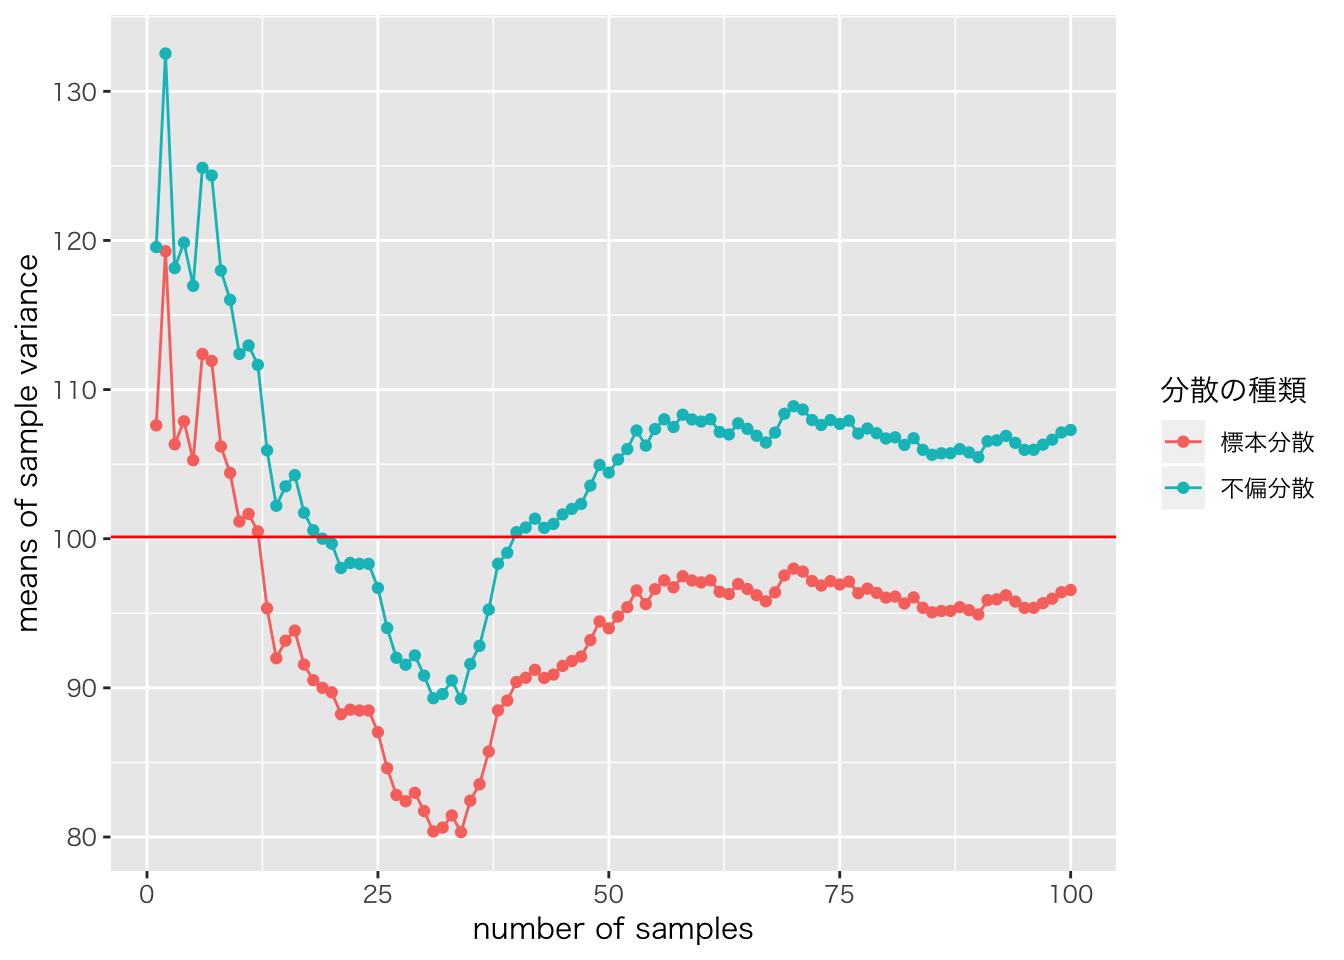
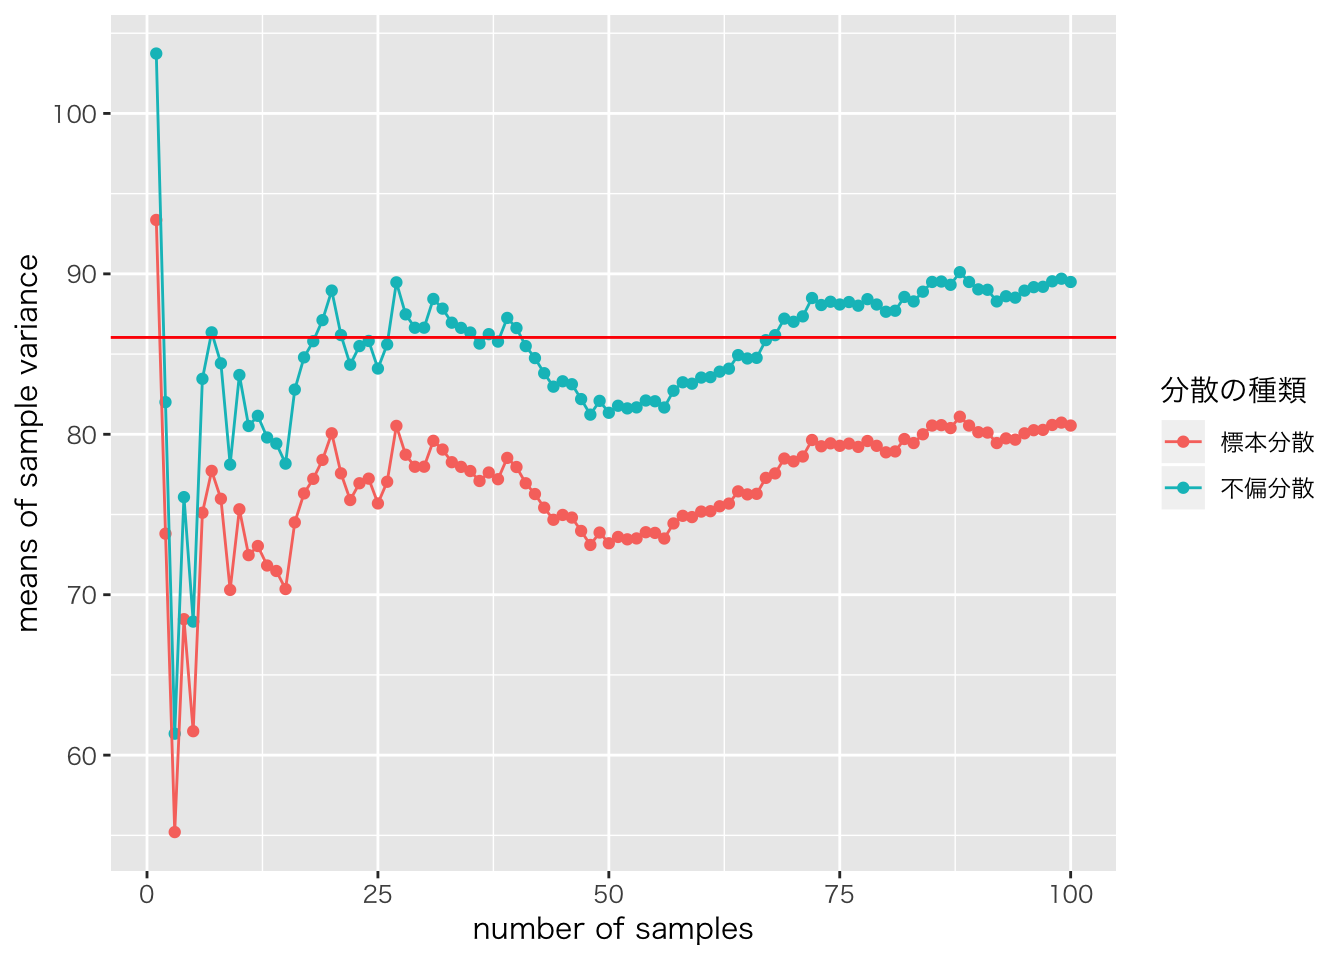
set.seed

diff --git a/docs/2018/07/04/2018-07-04/index.html b/docs/2018/07/04/2018-07-04/index.html
@@ -21,7 +21,7 @@
     <link href='https://fonts.googleapis.com/css?family=Open+Sans:400italic,400,600' rel='stylesheet' type='text/css'>
     <link href='https://fonts.googleapis.com/css?family=Source+Code+Pro' rel='stylesheet' type='text/css'>
     <meta property="og:title" content="不偏分散と標本分散の比較" />
-<meta property="og:description" content="不偏分散(\(N-1\)で割る方)が標本分散よりも分散の推定値として良いことを可視化します。 library(tidyverse) ## ─ Attaching packages ────────────── tidyverse 1.2.1 ─ ## ✔" />
+<meta property="og:description" content="不偏分散(\(N-1\)で割る方)が標本分散よりも分散の推定値として良いことを可視化します。 set.seed(20180704) library(tidyverse) ## ─ Attaching packages ────────────── tidyverse 1.2.1 ─ ##" />
 <meta property="og:type" content="article" />
 <meta property="og:url" content="/2018/07/04/2018-07-04/" />
 
@@ -44,12 +44,12 @@
     
     
 <meta itemprop="name" content="不偏分散と標本分散の比較">
-<meta itemprop="description" content="不偏分散(\(N-1\)で割る方)が標本分散よりも分散の推定値として良いことを可視化します。 library(tidyverse) ## ─ Attaching packages ────────────── tidyverse 1.2.1 ─ ## ✔">
+<meta itemprop="description" content="不偏分散(\(N-1\)で割る方)が標本分散よりも分散の推定値として良いことを可視化します。 set.seed(20180704) library(tidyverse) ## ─ Attaching packages ────────────── tidyverse 1.2.1 ─ ##">
 
 
 <meta itemprop="datePublished" content="2018-07-04T00:00:00&#43;00:00" />
 <meta itemprop="dateModified" content="2018-07-04T00:00:00&#43;00:00" />
-<meta itemprop="wordCount" content="404">
+<meta itemprop="wordCount" content="405">
 
 
 
@@ -57,7 +57,7 @@
 
     <meta name="twitter:card" content="summary"/>
 <meta name="twitter:title" content="不偏分散と標本分散の比較"/>
-<meta name="twitter:description" content="不偏分散(\(N-1\)で割る方)が標本分散よりも分散の推定値として良いことを可視化します。 library(tidyverse) ## ─ Attaching packages ────────────── tidyverse 1.2.1 ─ ## ✔"/>
+<meta name="twitter:description" content="不偏分散(\(N-1\)で割る方)が標本分散よりも分散の推定値として良いことを可視化します。 set.seed(20180704) library(tidyverse) ## ─ Attaching packages ────────────── tidyverse 1.2.1 ─ ##"/>
 <meta name="twitter:site" content="@kosugitti"/>
 
     
@@ -335,7 +335,7 @@
             <i class="fa fa-calendar"></i>
             <time datetime="2018-07-04 00:00:00 &#43;0000 UTC" itemprop="datePublished">2018-07-04</time>
             &middot;
-            404
+            405
             words
             &middot;
             1
@@ -375,7 +375,8 @@
         <div class="article-entry" itemprop="articleBody">
             <p>不偏分散(<span class="math inline">\(N-1\)</span>で割る方)が標本分散よりも分散の推定値として良いことを可視化します。</p>
 <!--more-->
-<pre class="r"><code>library(tidyverse)</code></pre>
+<pre class="r"><code>set.seed(20180704)
+library(tidyverse)</code></pre>
 <pre><code>## ─ Attaching packages ────────────── tidyverse 1.2.1 ─</code></pre>
 <pre><code>## ✔ ggplot2 3.0.0     ✔ purrr   0.2.5
 ## ✔ tibble  1.4.2     ✔ dplyr   0.7.6

diff --git a/docs/index.html b/docs/index.html
@@ -330,7 +330,7 @@
             <i class="fa fa-calendar"></i>
             <time datetime="2018-07-04 00:00:00 &#43;0000 UTC" itemprop="datePublished">2018-07-04</time>
             &middot;
-            404
+            405
             words
             &middot;
             1
@@ -369,7 +369,7 @@
 
         <div class="article-entry" itemprop="articleBody">
             <p>
-                不偏分散(\(N-1\)で割る方)が標本分散よりも分散の推定値として良いことを可視化します。 library(tidyverse) ## ─ Attaching packages ────────────── tidyverse 1.2.1 ─ ## ✔
+                不偏分散(\(N-1\)で割る方)が標本分散よりも分散の推定値として良いことを可視化します。 set.seed(20180704) library(tidyverse) ## ─ Attaching packages ────────────── tidyverse 1.2.1 ─ ##
             </p>
             <p class="article-more-link">
                 <a href="./2018/07/04/2018-07-04/">

diff --git a/content/notes/index.html b/content/notes/index.html
@@ -9,7 +9,7 @@ date: "2018-04-08T10:50:20+09:00"
 <h1>心理統計の授業で使ったプロットのコード</h1>
 <ul>
 <li><a href="/2018/06/26/2018-06-26a/">正規分布のコード</a></li>
-<li><a href="/2018/06/26/2018-06-30/">標準正規分布のコード</a></li>
+<li><a href="/2018/06/30/2018-06-30/">標準正規分布のコード</a></li>
 <li><a href="/2018/06/29/2018-06-29b/">正規分布の一部を塗りつぶす</a></li>
 <li><a href="/2018/06/26/2018-06-26c/">散布図のコード</a></li>
 <li><a href="/2018/06/26/2018-06-26d/">共分散を説明するときの図のコード</a></li>

diff --git a/docs/notes/index.html b/docs/notes/index.html
@@ -353,7 +353,7 @@
 <h1>心理統計の授業で使ったプロットのコード</h1>
 <ul>
 <li><a href="../2018/06/26/2018-06-26a/">正規分布のコード</a></li>
-<li><a href="../2018/06/26/2018-06-30/">標準正規分布のコード</a></li>
+<li><a href="../2018/06/30/2018-06-30/">標準正規分布のコード</a></li>
 <li><a href="../2018/06/29/2018-06-29b/">正規分布の一部を塗りつぶす</a></li>
 <li><a href="../2018/06/26/2018-06-26c/">散布図のコード</a></li>
 <li><a href="../2018/06/26/2018-06-26d/">共分散を説明するときの図のコード</a></li>

diff --git a/content/post/2018-07-04.html b/content/post/2018-07-04.html
@@ -17,7 +17,8 @@ menu: ''
 
 <p>不偏分散(<span class="math inline">\(N-1\)</span>で割る方)が標本分散よりも分散の推定値として良いことを可視化します。</p>
 <!--more-->
-<pre class="r"><code>library(tidyverse)</code></pre>
+<pre class="r"><code>set.seed(20180704)
+library(tidyverse)</code></pre>
 <pre><code>## ─ Attaching packages ────────────── tidyverse 1.2.1 ─</code></pre>
 <pre><code>## ✔ ggplot2 3.0.0     ✔ purrr   0.2.5
 ## ✔ tibble  1.4.2     ✔ dplyr   0.7.6
